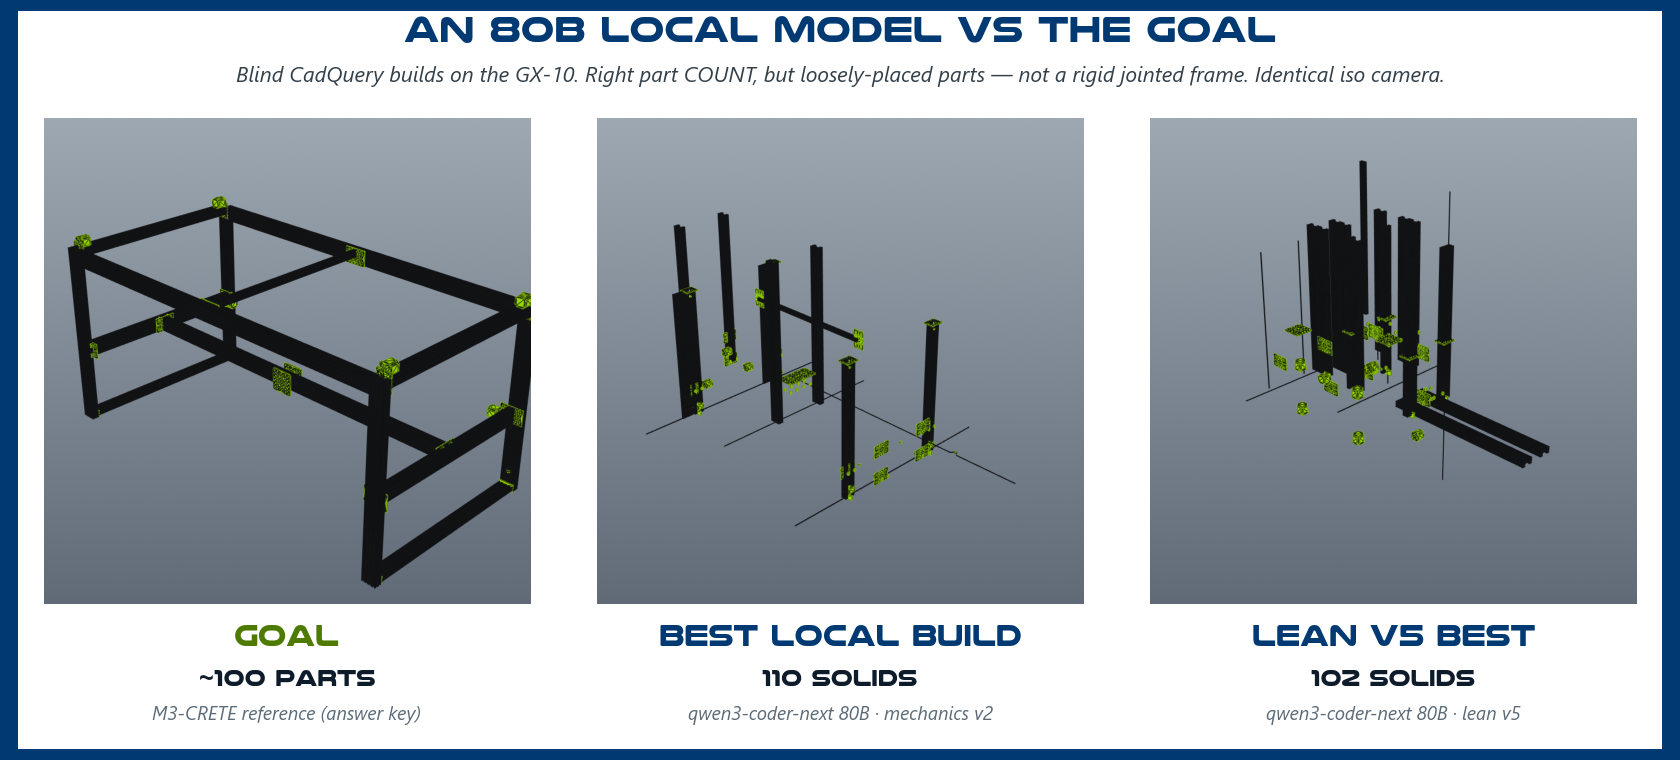
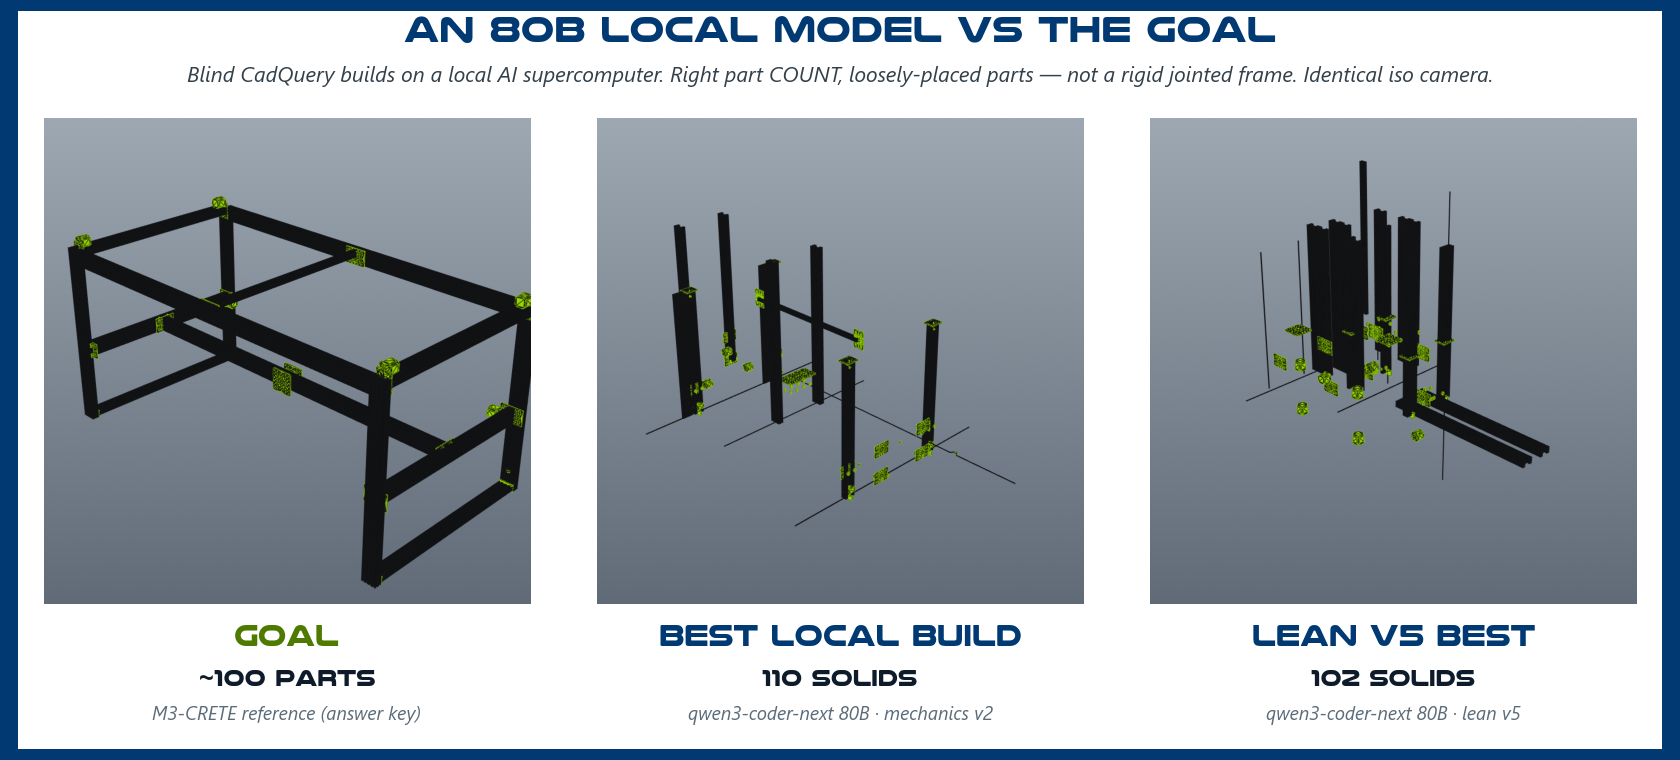
scrub: replace GX-10 / internal IP+hostname with 'local AI supercomputer' in public-facing surfaces
Generalizes the local-anchor hardware reference (figure subtitle regenerated, README, study, and marb_runs.json host fields) and removes the internal hostname+IP (gx10-1 / 192.168.1.180) from the manifest provenance, so nothing about the local systems leaks when these go public.

Changed region(s): [[0.0929, 0.0908, 0.8976, 0.1211]]

diff --git a/grader/build_marb_local_3panel.py b/grader/build_marb_local_3panel.py
@@ -80,7 +80,7 @@ def main(argv=None) -> int:
     fig.text(0.5, 0.945, "AN 80B LOCAL MODEL vs THE GOAL", fontproperties=NUL,
              fontsize=27, color=COLORS["navy"], ha="center")
     fig.text(0.5, 0.892,
-             "Blind CadQuery builds on the local AI supercomputer. Right part COUNT, but loosely-placed "
+             "Blind CadQuery builds on a local AI supercomputer. Right part COUNT, loosely-placed "
              "parts — not a rigid jointed frame. Identical iso camera.",
              fontsize=15.5, color=COLORS["ink_dim"], ha="center", style="italic")
 

diff --git a/README.md b/README.md
@@ -44,7 +44,7 @@ is what the metrics measure. Full write-up:
 ## The local-anchor floor
 
 The frontier table is the ceiling; this is the floor. A single **80B open-weight coder**
-(`qwen3-coder-next`, text-only, on one local AI supercomputer box) building the same machine blind — the model
+(`qwen3-coder-next`, text-only, on one local AI supercomputer) building the same machine blind — the model
 an air-gapped shop could run, no internet, no hosted API.
 
 | Cell (n=5) | GAP median | ORIENT aligned | POS rel median |

diff --git a/results/local_anchor_study.md b/results/local_anchor_study.md
@@ -1,7 +1,7 @@
 # MARB local-anchor study — an 80B open-weight model builds M3-CRETE blind
 
 **Track:** `cadquery_native_driver`, cell `local_anchor` · **Builder:** `qwen3-coder-next:q4_K_M`
-(Qwen3-Coder 79.7B / 3B-active, Q4, **text-only**) on the local AI supercomputer ([redacted-host]), Ollama, 8-turn cap ·
+(Qwen3-Coder 79.7B / 3B-active, Q4, **text-only**) on a local AI supercomputer, Ollama, 8-turn cap ·
 **Kit:** v1.1 · **Blind:** brief + staged kit only, no reference solution, no project memory ·
 **Grader:** MARB v0.9 (`marb_grade_all.py`), cadclaw 0.9.0 · **n = 5 / cohort.**
 